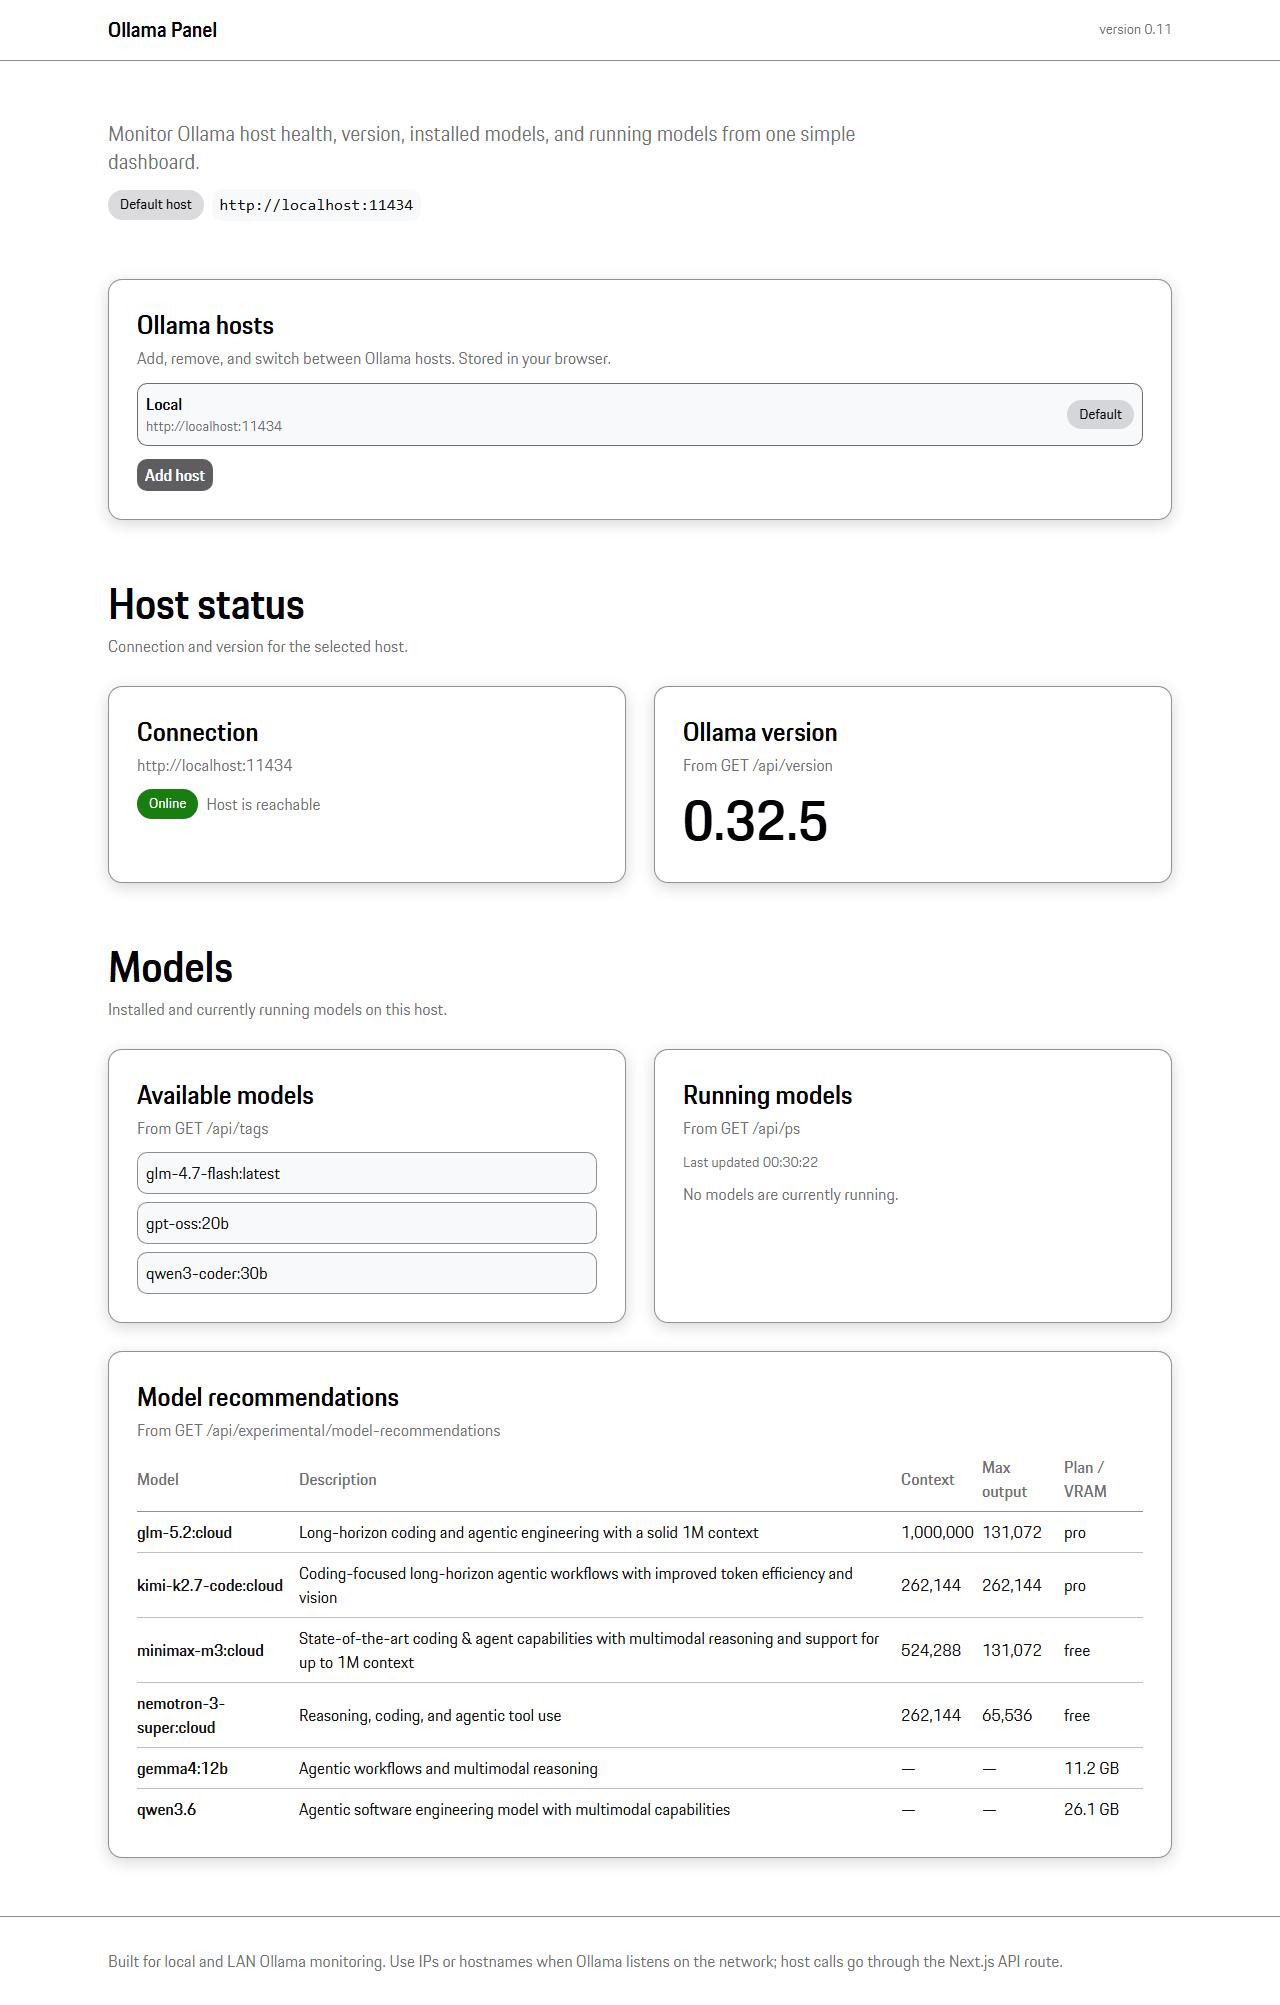
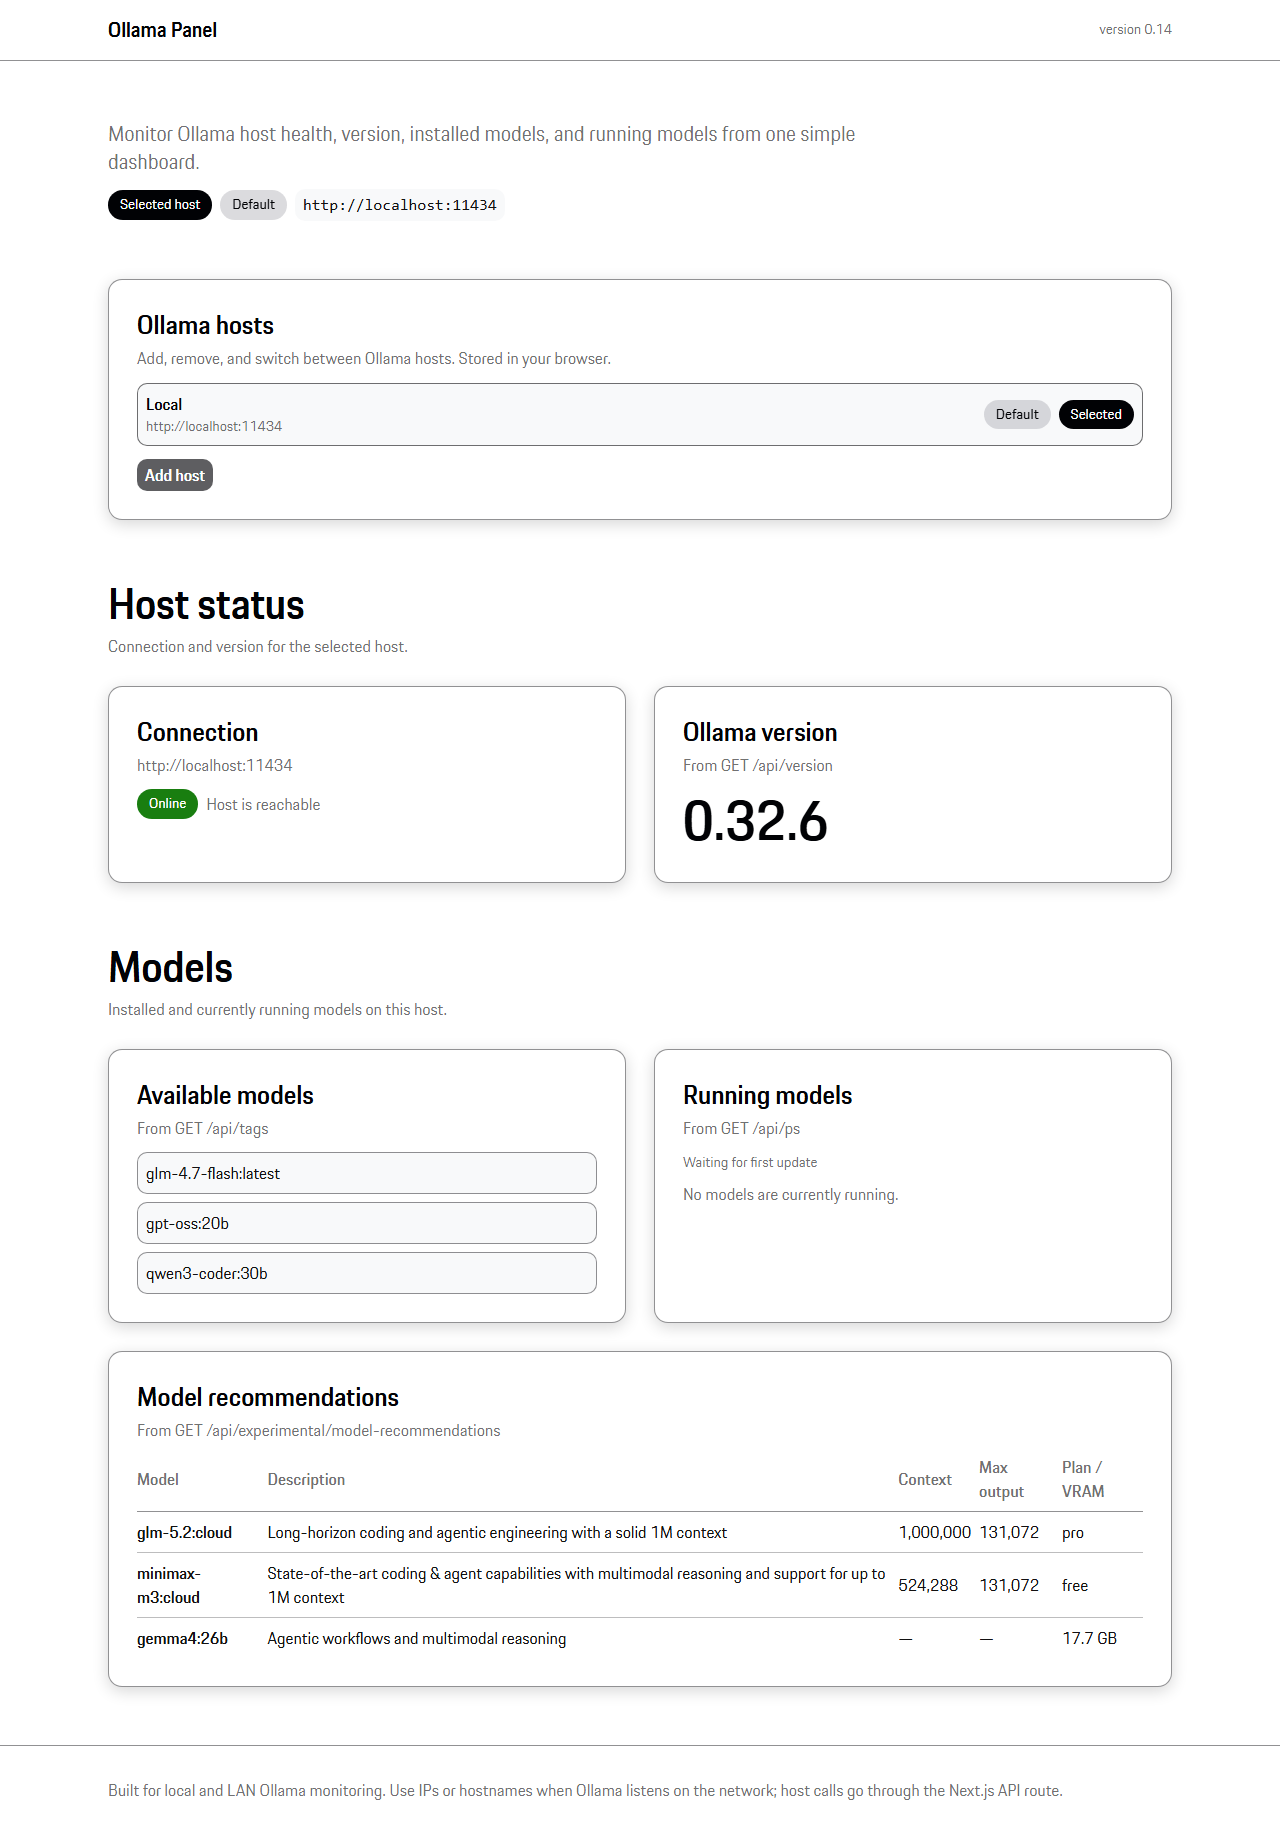
update 0.12
test

diff --git a/app/page.tsx b/app/page.tsx
@@ -2,6 +2,7 @@ import { HostManager } from "@/components/HostManager";
 import { HeroSection } from "@/components/sections/HeroSection";
 import { ModelsSection } from "@/components/sections/ModelsSection";
 import { StatusSection } from "@/components/sections/StatusSection";
+import { APP_VERSION } from "@/lib/app-version";
 import { DEFAULT_HOST_URL } from "@/lib/hosts";
 import { fetchOllamaStatus, validateHostUrl } from "@/lib/ollama";
 import { PHeading, PText } from "@porsche-design-system/components-react/ssr";
@@ -29,7 +30,7 @@ export default async function Home({ searchParams }: PageProps) {
             Ollama Panel
           </PHeading>
           <PText size="x-small" color="contrast-medium">
-            version 0.12
+            version {APP_VERSION}
           </PText>
         </div>
       </header>

diff --git a/e2e_tests/screenshot.spec.ts b/e2e_tests/screenshot.spec.ts
@@ -1,0 +1,18 @@
+import { expect, test } from "@playwright/test";
+import { mkdir } from "node:fs/promises";
+import path from "node:path";
+
+const screenshotDir = path.join(process.cwd(), "docs", "screenshots");
+const screenshotPath = path.join(screenshotDir, "overview.png");
+
+test("capture overview screenshot", async ({ page }) => {
+  await mkdir(screenshotDir, { recursive: true });
+
+  await page.goto("/");
+  await page.evaluate(() => window.localStorage.clear());
+  await page.reload();
+
+  await expect(page.getByRole("heading", { name: "Ollama Panel" })).toBeVisible();
+
+  await page.screenshot({ path: screenshotPath, fullPage: true });
+});

diff --git a/lib/app-version.ts b/lib/app-version.ts
@@ -1,0 +1,1 @@
+export const APP_VERSION = "0.14";

diff --git a/README.md b/README.md
@@ -52,6 +52,9 @@ If Ollama is not running, the panel still loads and shows an offline state for t
 | `npm run build` | Production build |
 | `npm run start` | Run production server |
 | `npm run lint` | ESLint |
+| `npm run precommit` | Bump app version by 0.01 and refresh `docs/screenshots/overview.png` (runs automatically on commit) |
+| `npm run screenshot` | Capture `docs/screenshots/overview.png` without bumping the version |
+| `SKIP_VERSION_BUMP=1 git commit ...` | Skip version bump and screenshot on commit |
 
 ## Architecture
 
